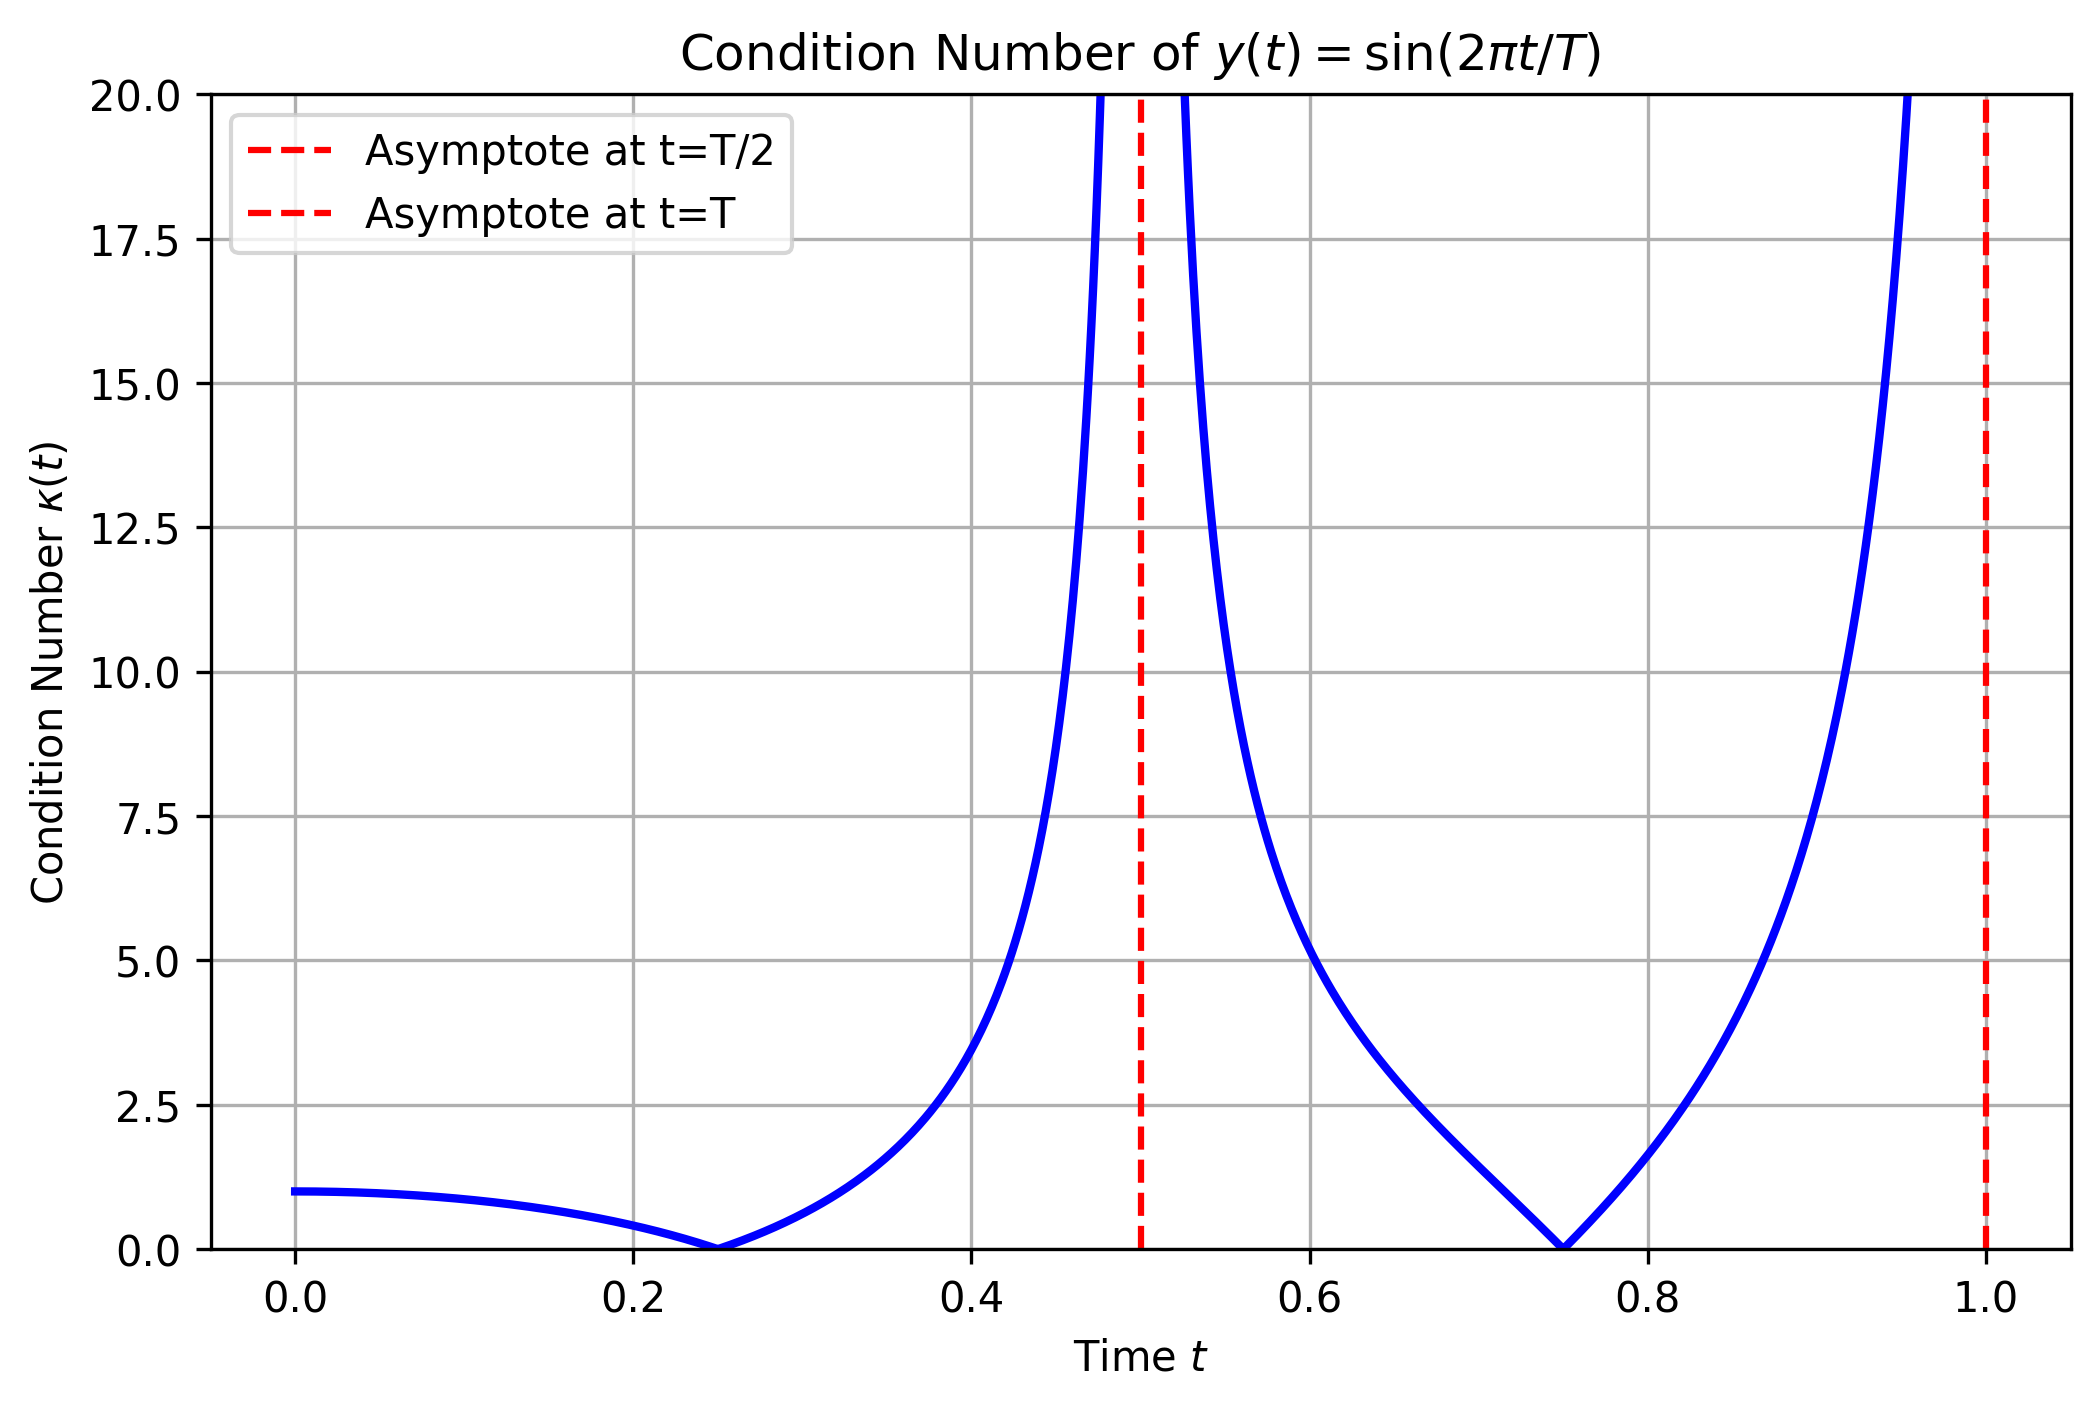
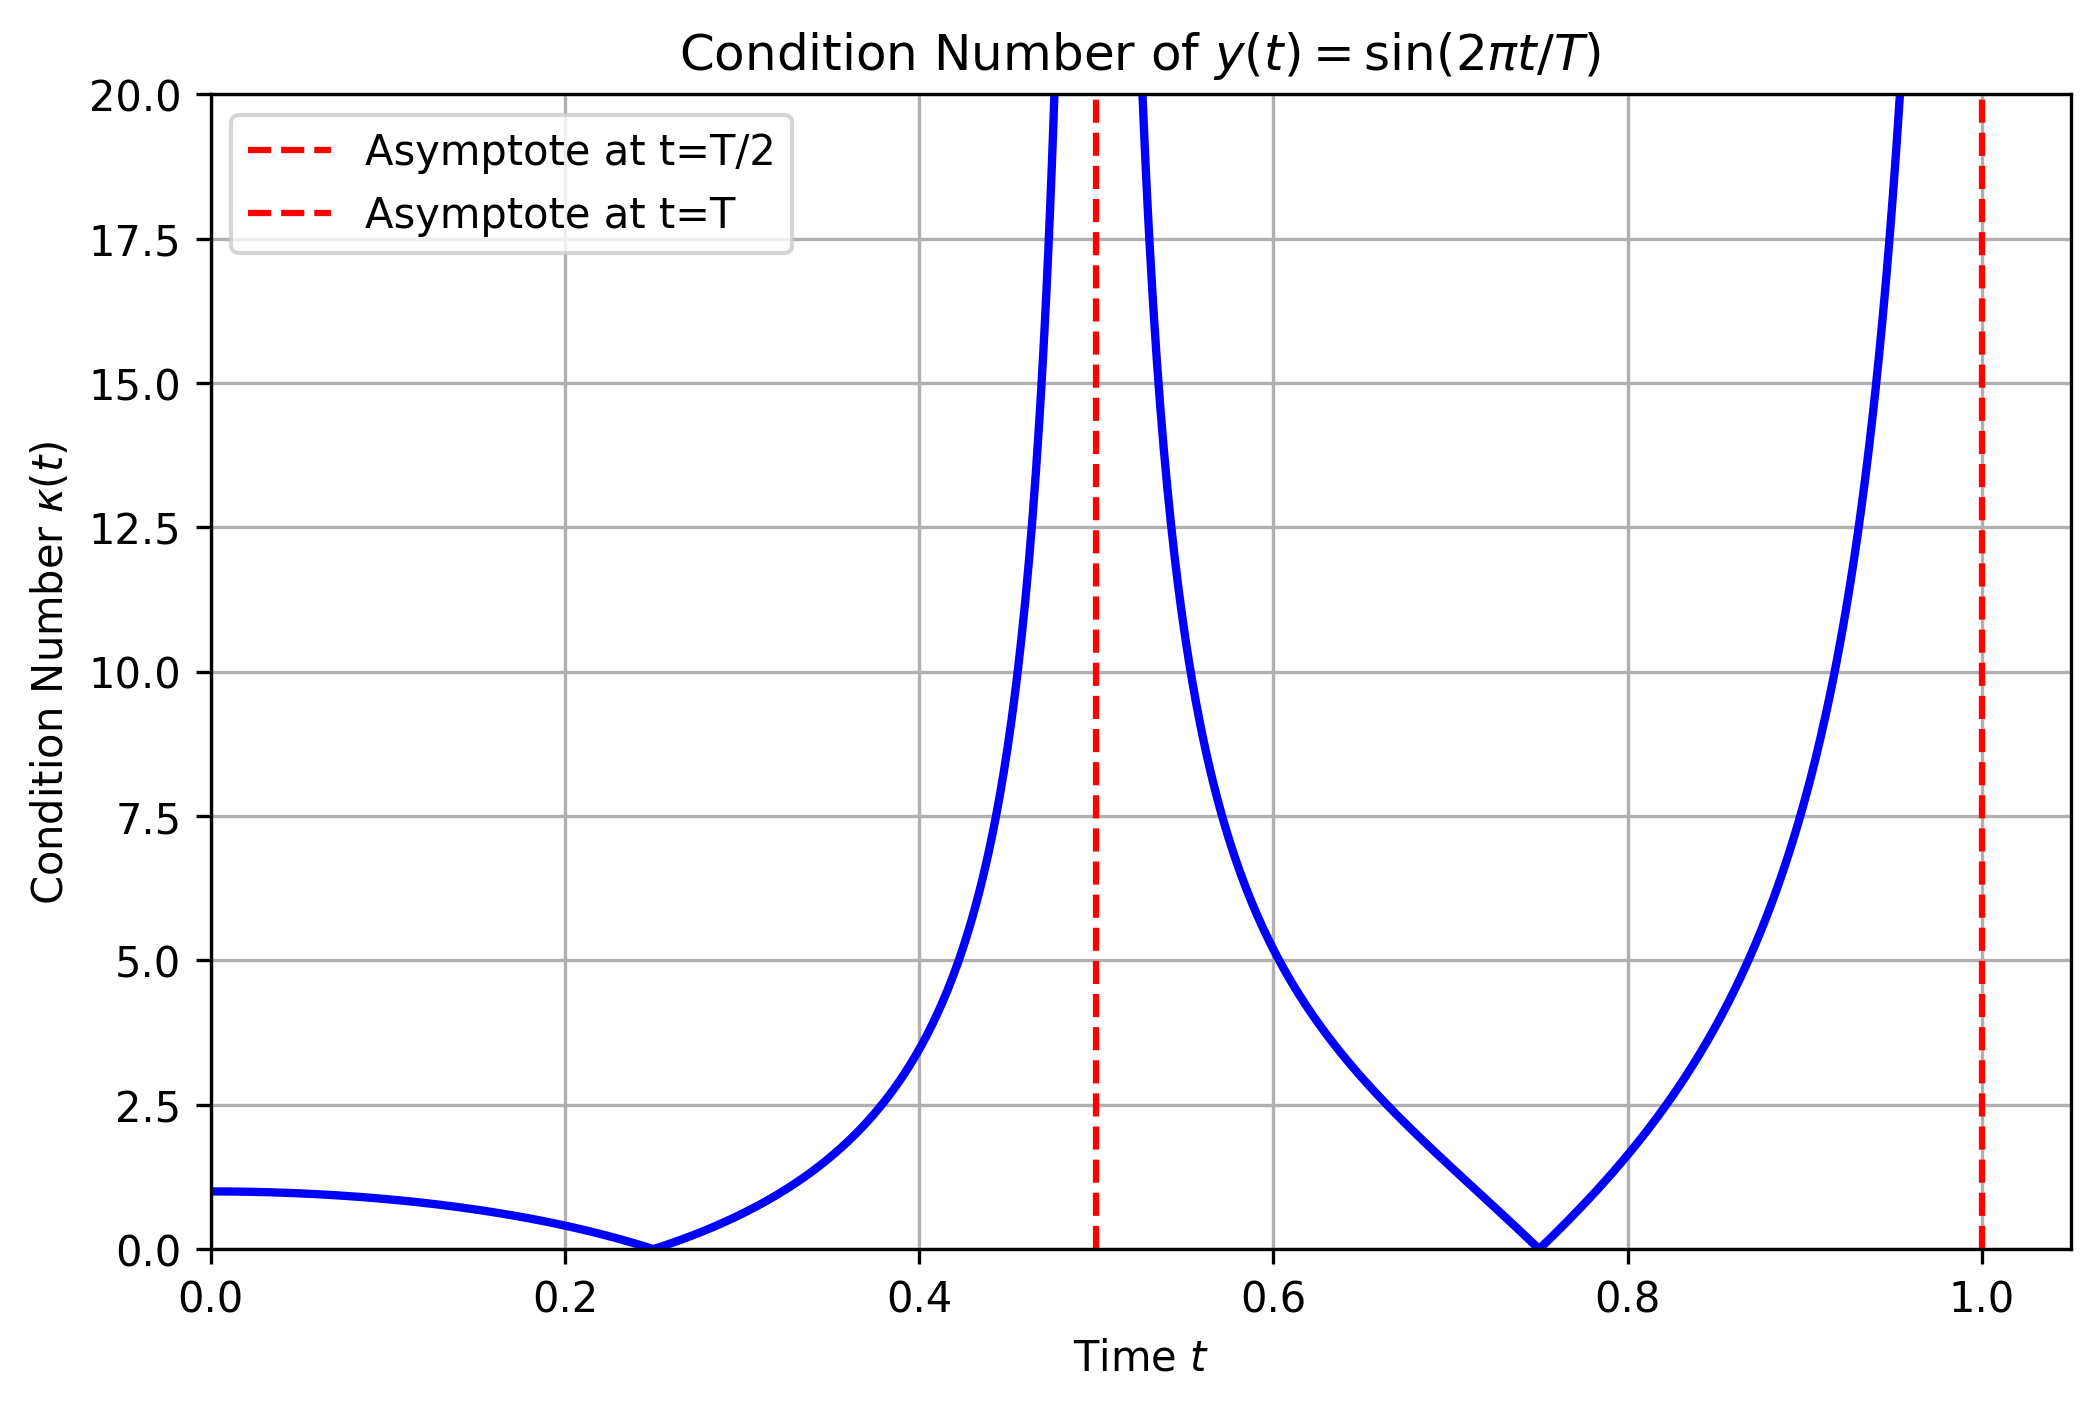
Update

diff --git a/Assignment_1/q3.py b/Assignment_1/q3.py
@@ -21,10 +21,10 @@ plt.ylabel('Condition Number $\kappa(t)$')
 
 
 plt.ylim(0,20)
-plt.xlim(-0.05*T,1.05*T)
-plt.xticks([0,T/4,T/2,3*T/4,T],['0','T/4','T/2','3T/4','T'])
+plt.xlim(0*T,1.05*T)
+# plt.xticks([0,T/4,T/2,3*T/4,T],['0','T/4','T/2','3T/4','T'])
 plt.grid(True)
 plt.legend()
-plt.savefig('condition_number_plot_2.png',dpi=300,bbox_inches='tight')
+plt.savefig('condition_number_plot.png',dpi=300,bbox_inches='tight') # I used this to just to save the image
 plt.show()
     
